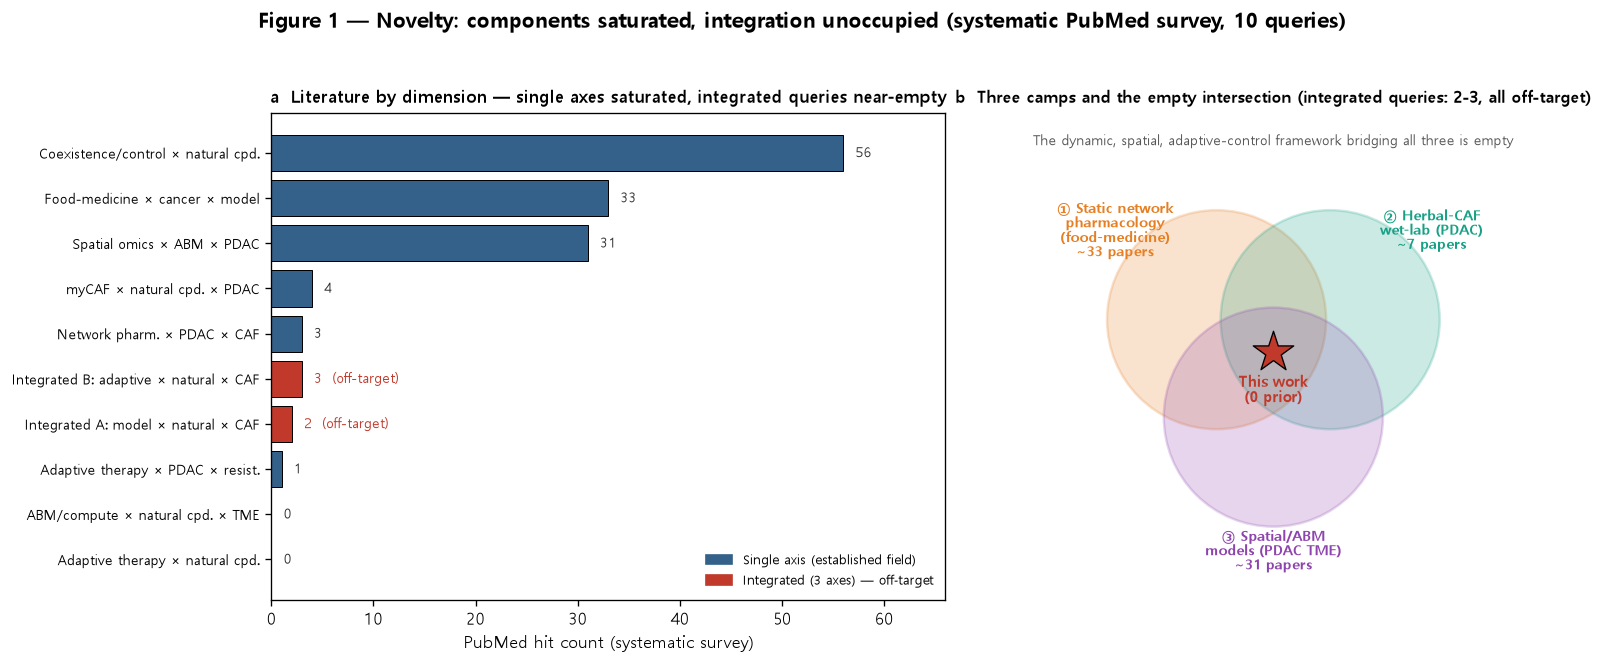
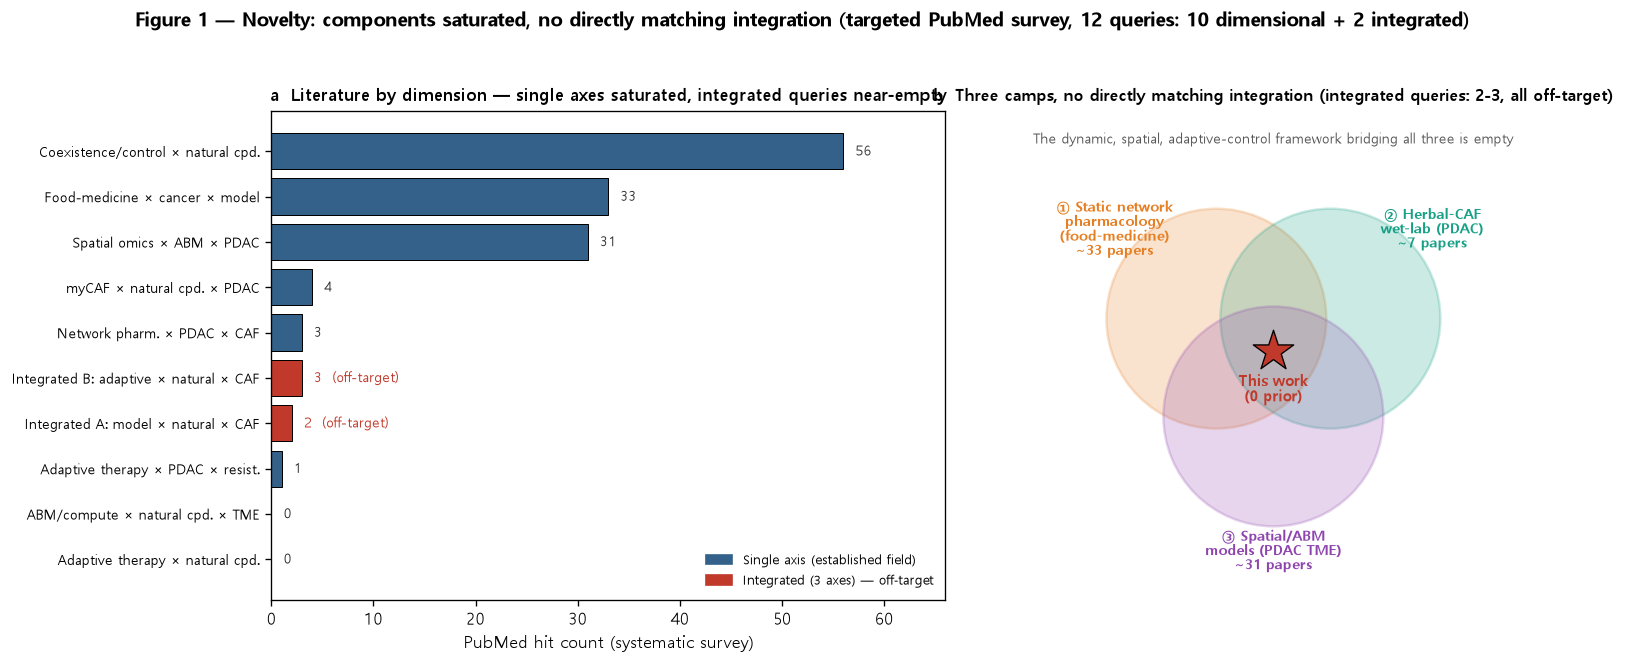
docs(manuscript): editorial pass — causal language, novelty softening, placeholders, seed table
Addresses the reviewer's minor/editorial comments:
- Cover page: removed "[+ collaborating PI to be added]" and draft-assembly placeholder;
  clean unaffiliated-author footnote.
- CRT causal language -> cross-sectional: §3.3 heading and body, §3.2 (Fig 2b), §4.2, and
  the Fig 3 caption now say "higher/denser in CRT-treated specimens" and flag the
  comparison as cross-sectional (different patients, not paired).
- Novelty survey: softened "empty/unoccupied/confirmed" -> "no directly matching study in
  a targeted survey" (abstract, §3.1 heading+body, Fig 1 caption); unified the query count
  to 12 (10 dimensional + 2 integrated) across Methods, §3.1, and the Fig 1 script/image.
- Fig 4 caption: "controllable resource" -> "the model predicts a non-zero optimal stromal
  level only under specified conditions."
- CRTL defined inline (chemoradiation + additional line; excluded from untreated-vs-CRT).
- HCC decoupled from results: caf_protumor described generically (co-opted-stroma settings)
  and "results here are for PDAC only"; HCC kept only as future work.
- Added a per-experiment replication (seed-count) table in §2.8 and an archived-release
  (DOI/Zenodo) reproducibility note in §2.9.

diff --git a/pipeline/fig1.py b/pipeline/fig1.py
@@ -84,16 +84,17 @@ def panel_b(ax):
             ha="center", fontsize=8.2, color="#555")
     ax.set_xlim(-3.1, 3.1); ax.set_ylim(-3.0, 3.0); ax.set_aspect("equal")
     ax.axis("off")
-    ax.set_title("b  Three camps and the empty intersection (integrated queries: 2-3, all off-target)",
-                 fontsize=9.8, fontweight="bold")
+    ax.set_title("b  Three camps, no directly matching integration (integrated queries: 2-3, all off-target)",
+                 fontsize=9.6, fontweight="bold")
 
 
 def main():
     fig, axs = plt.subplots(1, 2, figsize=(13.5, 5.6),
                             gridspec_kw=dict(width_ratios=[1.05, 1]))
     panel_a(axs[0]); panel_b(axs[1])
-    fig.suptitle("Figure 1 — Novelty: components saturated, integration unoccupied "
-                 "(systematic PubMed survey, 10 queries)", fontsize=12.5, fontweight="bold")
+    fig.suptitle("Figure 1 — Novelty: components saturated, no directly matching integration "
+                 "(targeted PubMed survey, 12 queries: 10 dimensional + 2 integrated)",
+                 fontsize=11.5, fontweight="bold")
     fig.tight_layout(rect=[0, 0, 1, 0.95])
     out = os.path.join(ROOT, "assets", "fig1_novelty.png")
     fig.savefig(out, dpi=120, bbox_inches="tight")

diff --git a/docs/manuscript/manuscript.md b/docs/manuscript/manuscript.md
@@ -2,10 +2,11 @@
 
 *Subtitle: food-medicine-homology compounds as a hypothesis-generating application*
 
-*Draft manuscript — assembled from section drafts (2026-07-21). In-silico, hypothesis-generating study. Placeholder items marked [ ].*
+*In-silico, hypothesis-generating study.*
 
-**Author:** Seung-Il Kim (김승일 / 金昇日), Independent Researcher [+ collaborating PI to be added]
+**Author:** Seung-Il Kim (김승일 / 金昇日)¹
 **Corresponding author:** Seung-Il Kim · [email redacted] · **ORCID:** [0009-0007-5965-9212](https://orcid.org/0009-0007-5965-9212)
+¹ Independent Researcher (unaffiliated).
 
 ---
 
@@ -19,9 +20,9 @@ treated as a *controllable resource* for restraining, rather than eradicating, t
 tumor. We present an in-silico framework that integrates three previously
 disconnected research lines—static network pharmacology of "food-medicine
 homology" compounds, wet-laboratory studies of herbal modulation of PDAC CAFs, and
-agent-based modeling of the tumor microenvironment. A systematic PubMed survey
-confirmed that, while each line is individually well populated, their integration
-is essentially absent. Our framework builds a spatial agent-based model of the
+agent-based modeling of the tumor microenvironment. A targeted PubMed survey
+found that, while each line is individually well populated, no directly matching study
+integrates them. Our framework builds a spatial agent-based model of the
 PDAC tumor–myCAF–immune ecosystem, grounded in single-cell spatial transcriptomics
 (Xenium and CosMx), and encodes food-medicine-homology compounds (e.g., garlic,
 ginseng, Platycodon, mugwort) as mechanistic parameter perturbations across a
@@ -192,7 +193,9 @@ chemoradiation-treated [CRT]) with a 480-gene panel; cell coordinates (µm) from
 two-stage module-score scheme (coarse type by argmax over marker modules, then CAF
 subtype among CAF-assigned cells) using literature marker panels. (ii) **CosMx SMI**
 (NanoString; Shiau et al. [20]; Mendeley Data doi:10.17632/kx6b69n3cb.1): 16 PDAC
-tumors (9 untreated, 6 CRT, 1 CRTL) with a 1,009-gene panel and **author-provided**
+tumors (9 untreated, 6 CRT, and 1 specimen labeled CRTL—chemoradiation plus an additional
+line of therapy in the source metadata—which we excluded from the untreated-versus-CRT
+rim comparison for group clarity) with a 1,009-gene panel and **author-provided**
 major-type and CAF-subtype annotations (717,493 cells); global pixel coordinates
 were converted to microns (0.12028 µm/px). MIBI-TOF (colorectal, squidpy) served as
 a negative-architecture control. The two PDAC datasets play complementary roles: the
@@ -232,8 +235,9 @@ cells (with iCAF/macrophage as context). Update rules per step:
   probability `k_caf_activate` within `caf_ring_um` (150 µm) of tumor, up to
   `caf_cap_per_tumor`, and reverts (turnover) at `k_caf_death`; anti-fibrotic
   perturbation lowers activation so turnover reduces barrier mass. An optional
-  `caf_protumor` term boosts local proliferation (0 for PDAC; large for the HCC context,
-  reflecting cirrhosis-as-pro-tumor soil).
+  `caf_protumor` term boosts local proliferation (baseline 0; enabled in the pro-tumor
+  robustness analysis of §3.4/Fig. S11, and available for co-opted-stroma settings such as
+  a cirrhotic liver).
 - **myCAF physical containment.** Local myCAF density ρ (within the kill radius) exerts
   three effects on the tumor. (i) *Confinement*: a dividing cell's daughter is blocked
   from being placed into a stroma-dense location with probability
@@ -270,8 +274,8 @@ against costs: immune exclusion (via `cd8_barrier_alpha`), impaired drug deliver
 signaling-based drug tolerance. Their balance determines whether preserving or reducing
 stroma aids control, which we map in §3.4 (and re-map with the pro-tumor axes on in
 Fig. S11). Parameters are literature-grounded rather than fit to
-data; full values and citations are in Supplementary Table S1. Two organ contexts
-(PDAC, HCC) share the stellate/TGF-β axis and differ only in `caf_protumor`.
+data; full values and citations are in Supplementary Table S1. (The stellate/TGF-β axis
+generalizes to other desmoplastic organs; results here are for PDAC only.)
 
 ### 2.5 Encoding food-medicine-homology compounds
 Seventeen agents—food-medicine-homology compounds (e.g., garlic, ginseng, Platycodon,
@@ -329,22 +333,43 @@ sequential cycles; (E3) a seed-averaged dose × drug-holiday grid search; and a
 sensitivity analysis combining a `resistance_cost` sweep with one-at-a-time ±50%
 perturbation of nine key parameters, complemented by a variance-based global (Sobol)
 analysis over eight parameters (Saltelli sampling, first- and total-order indices;
-Fig. S7). Stochastic results are averaged over three seeds (42, 7, 123).
+Fig. S7). Exploratory results use three seeds (42, 7, 123); the confirmatory analyses use
+larger replication as summarized below.
+
+**Replication per experiment.** Seed/sample counts vary by analysis and are reported with
+each result:
+
+| Analysis | Figure | Replication |
+|---|---|---|
+| Exploratory sims, phase map | Figs 4, 5, S3, S8, S9 | 3 seeds |
+| Fair 2×2 (agent × schedule) | Fig. S5 | 5 seeds |
+| GV1001-style barrier gating | Fig. S4 | (regime sweep) |
+| Global Sobol sensitivity | Fig. S7 | Saltelli N=32, 1 seed/run |
+| Multi-seed Pareto ranking | Fig. S10 | 30 seeds |
+| Pro-tumor phase-map robustness | Fig. S11 | 3 seeds/cell, 2 conditions |
+| CA19-9 observation model | Fig. S12 | 20 seeds |
+| Single-agent schedule | Fig. S13 | 20 seeds |
+| Monte Carlo epistemic uncertainty | Fig. S14 | 100 draws |
+| Non-trivial spatial predictions | Figs S15–S17 | 5 seeds |
 
 ### 2.9 Implementation and availability
 The framework is implemented in Python (3.13) using scanpy/anndata, squidpy, pyarrow,
 NumPy/SciPy, and Matplotlib, with an interactive Streamlit dashboard exposing the
 spatial, simulation, optimization, and molecular-viewer modes. Spatial data: Xenium
 GSE274673; CosMx from Mendeley Data (doi:10.17632/kx6b69n3cb.1) [20]. All analysis
-code is available at https://github.com/kusi81/pdac-coexistence-control.
+code is available at https://github.com/kusi81/pdac-coexistence-control; a version-tagged
+release archived with a DOI (e.g., Zenodo) will accompany publication so that every figure
+is reproducible from the exact commit, including per-figure generation scripts and the
+random seeds listed in §2.8.
 
 ---
 
 ## 3. Results
 
-### 3.1 The components of our approach are individually well-established, but their integration is unoccupied
-To position the framework, we ran a systematic PubMed survey (ten Boolean queries
-spanning the intersecting dimensions of our approach; Methods §2.1) and quantified
+### 3.1 The components of our approach are individually well-established, but no directly matching integration was found in a targeted survey
+To position the framework, we ran a targeted PubMed survey (twelve Boolean queries—ten
+spanning the intersecting dimensions of our approach plus two "integrated" queries;
+Methods §2.1) and quantified
 how much prior literature occupies each axis versus their integration (Fig. 1a). The
 individual axes are well populated: coexistence/control with natural compounds (56
 records), network-pharmacology of food-medicine-homology compounds against cancer
@@ -364,8 +389,8 @@ optimization framework [17,18]; and (iii) agent-based and spatial models of the 
 microenvironment, which capture tumor–stroma–immune dynamics but incorporate neither
 natural compounds nor a coexistence-control objective [19,20]. The triple
 intersection—a dynamic, spatially grounded, adaptive-control framework that uses
-food-medicine-homology compounds to modulate the myCAF barrier—was empty in our
-survey, defining the gap this work occupies. We note the limits of this analysis: it
+food-medicine-homology compounds to modulate the myCAF barrier—returned no directly
+matching study in our targeted survey, indicating the gap this work addresses. We note the limits of this analysis: it
 queries PubMed only and is a targeted novelty search rather than a PRISMA systematic
 review; nonetheless, the near-absence of integrated hits amid abundant single-axis
 literature supports that the contribution lies in the integration.
@@ -379,9 +404,9 @@ abundance (Fig. 2a). We next tested a known biological positive control—myCAFs
 closer to malignant cells than iCAFs [3,20]—on the author-annotated CosMx dataset
 (717,493 cells across 16 tumors). myCAF was significantly closer to malignant cells
 than iCAF in 15 of 16 tumors (the single exception showed a 0.2 µm difference,
-p = 0.279, a tie), and the gap widened after therapy (−2.6 µm untreated vs −18.8 µm
-CRT) (Fig. 2b). Given faithful annotations, our metric recovers the expected
-architecture.
+p = 0.279, a tie), and the gap was larger in CRT-treated than untreated specimens
+(−2.6 µm untreated vs −18.8 µm CRT; cross-sectional, not paired) (Fig. 2b). Given faithful
+annotations, our metric recovers the expected architecture.
 
 Critically, the *same* metric failed this positive control on our targeted-panel
 Xenium data typed by marker-based module scores: myCAF scored as marginally *farther*
@@ -395,18 +420,21 @@ on full-panel author-annotated data—and that robust CAF-subtype spatial analys
 requires full-transcriptome or author-level annotations rather than targeted-panel
 module scoring, consistent with our hypothesis-generating framing.
 
-### 3.3 myCAFs form a tumor-adjacent barrier that tightens under therapy while cytotoxic T cells remain excluded
-We characterized the peritumoral rim (30 µm shell) composition and its change with
-neoadjuvant chemoradiotherapy in the CosMx cohort (9 untreated, 6 CRT; Fig. 3). myCAFs
-were the dominant tumor-adjacent population, strongly enriched at the rim in both
-groups and further enriched after therapy (mean rim z = +9.1 → +15.7), whereas iCAFs
-were excluded and displaced farther out (z = −3.5 → −9.2). Pericytes shifted from
-neutral to tumor-adjacent after therapy (z = −1.6 → +3.3), consistent with vascular
-remodeling. The immune compartment showed persistent exclusion: cytotoxic CD8⁺ T cells
-remained depleted from the rim (z = −5.6 → −4.0), with CD4⁺ T and regulatory T cells
-similarly excluded and plasma cells most strongly excluded (z = −11.3 → −4.1);
-macrophages were the only rim-enriched immune lineage, declining after therapy
-(z = +6.8 → +2.4).
+### 3.3 myCAFs form a tumor-adjacent barrier that is denser in CRT-treated specimens, while cytotoxic T cells remain excluded
+We characterized the peritumoral rim (30 µm shell) composition in the CosMx cohort and
+compared it between untreated and neoadjuvant-chemoradiotherapy (CRT) specimens (9
+untreated, 6 CRT; Fig. 3). This is a cross-sectional comparison of different patients, not
+a paired longitudinal measurement, so differences are associations between treatment
+status and rim composition rather than demonstrated treatment effects. myCAFs were the
+dominant tumor-adjacent population, strongly enriched at the rim in both groups and more
+strongly enriched in CRT-treated than untreated specimens (mean rim z = +9.1 untreated vs
++15.7 CRT), whereas iCAFs were excluded and displaced farther out (z = −3.5 vs −9.2).
+Pericytes were rim-neutral in untreated and tumor-adjacent in CRT-treated specimens
+(z = −1.6 vs +3.3), consistent with vascular remodeling. The immune compartment showed
+exclusion in both groups: cytotoxic CD8⁺ T cells were depleted from the rim (z = −5.6 vs
+−4.0), with CD4⁺ T and regulatory T cells similarly excluded and plasma cells most
+strongly excluded (z = −11.3 vs −4.1); macrophages were the only rim-enriched immune
+lineage, and were less enriched in CRT-treated specimens (z = +6.8 vs +2.4).
 
 These observations refine the intuitive expectation that therapy relieves immune
 exclusion. In this cohort, CRT did *not* recruit cytotoxic T cells to the tumor rim:
@@ -741,8 +769,8 @@ best controls the tumor (§3.4, Fig. 4).
 ### 4.2 Biological plausibility
 Several results align with independent biology. On author-annotated CosMx data, our
 metric reproduced the myCAF-proximal/iCAF-distal architecture in 15 of 16 tumors and
-showed the myCAF barrier tightening under chemoradiation while cytotoxic T cells
-remained excluded (§3.3). We are careful in interpreting this: a denser peritumoral
+showed a denser peritumoral myCAF rim in CRT-treated than untreated specimens while
+cytotoxic T cells remained excluded in both (§3.3; cross-sectional association). We are careful in interpreting this: a denser peritumoral
 myCAF rim with persistent T-cell exclusion is equally consistent with an
 *immunosuppressive* barrier as with a tumor-*containing* one—the observation is a
 necessary, not sufficient, condition for containment. This ambiguity is precisely
@@ -942,11 +970,12 @@ principles and a prioritization engine for the experimental work that must follo
 
 ## Figures
 
-**Figure 1. Novelty landscape.** (a) Per-dimension PubMed hit counts from the
-systematic survey; individual axes (blue) are well populated while integrated,
-three-axis queries (red) return only off-target hits. (b) Three-camp schematic: static
-network pharmacology, wet-lab herbal–CAF, and spatial/ABM modeling are each populated
-but their intersection—this work—is empty. *(assets/fig1_novelty.png)*
+**Figure 1. Novelty landscape.** (a) Per-dimension PubMed hit counts from the targeted
+survey (twelve queries: ten dimensional, two integrated); individual axes (blue) are well
+populated while integrated, three-axis queries (red) return only off-target hits. (b)
+Three-camp schematic: static network pharmacology, wet-lab herbal–CAF, and spatial/ABM
+modeling are each populated but no directly matching study occupies their intersection in
+our targeted search. *(assets/fig1_novelty.png)*
 
 **Figure 2. The containment metric is sound; annotation is the limiting factor.**
 (a) Synthetic contained (myCAF ring; barrier z = +22.3) vs diffuse (scattered; +0.9).
@@ -955,10 +984,11 @@ tumors (points left of 0 = correct). (c) The same metric fails on marker-annotat
 Xenium data (1/5), localizing the failure to annotation. *(assets/fig2_validation.png)*
 
 **Figure 3. Peritumoral composition, untreated vs CRT (CosMx author annotations).**
-Rim (30 µm) enrichment z by cell type; myCAF is tumor-adjacent and tightens with CRT
-while CD8⁺ T cells remain excluded. *(assets/rim_scotia.png)*
+Rim (30 µm) enrichment z by cell type; myCAF is tumor-adjacent and more rim-enriched in
+CRT-treated than untreated specimens while CD8⁺ T cells remain excluded in both
+(cross-sectional comparison of different patients, not paired). *(assets/rim_scotia.png)*
 
-**Figure 4. The myCAF barrier is a controllable resource only under specified
+**Figure 4. The model predicts a non-zero optimal stromal level only under specified
 conditions.** Under fixed sub-maximal treatment the myCAF level was swept and the
 tumor-minimizing (optimal) level located, over a grid of confinement strength
 (caf_pressure) × immune-exclusion strength (cd8_barrier_alpha). (a) Optimal myCAF level
@@ -1221,4 +1251,5 @@ writing – original draft, writing – review & editing.
 - [x] Resolve food entities to defined APIs (garlic→SAC, mugwort→eupatilin, ginseng→20(S)-Rg3) + drug-product attribute table (Table S2, refs [26-29])
 - [x] Monte Carlo epistemic uncertainty over compound assumptions (effect, exposure weight, bioavailability, synergy) on API regimens (Fig. S14); natural control collapses to 0-2% vs gem 96% — not robust to pharmacology uncertainty
 - [x] Non-trivial spatial predictions (§3.10): geometry changes immune-therapy efficacy ~12× at fixed abundance (Fig. S15a), CAF reduction widens invasion front more when confined (Fig. S15b), open-first beats immune-first modestly (Fig. S16), and peritumoral myCAF density (|r|=0.92) — not abundance (|r|=0.56) — predicts the immune regime (Fig. S17)
-- [ ] CRTL definition footnote (§2.2) — confirm meaning from SCOTIA metadata (excluded from analysis)
+- [x] CRTL defined inline (§2.2, chemoradiation + additional line; excluded from untreated-vs-CRT comparison)
+- [x] Editorial pass: cover-page placeholder removed; CRT causal→cross-sectional language (§3.3, Figs 2b/3); novelty "empty/confirmed"→"no directly matching study" and query count unified to 12 (Fig 1); Fig 4 caption "resource"→"non-zero optimum"; HCC decoupled from results; per-experiment seed table (§2.8); archived-release note (§2.9)